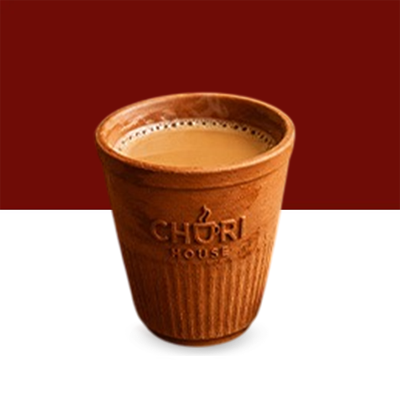
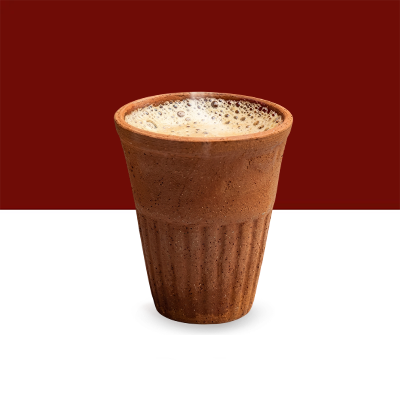
images + minor chnages done

Changed region(s): [[0.24, 0.21, 0.75, 0.9]]

diff --git a/resources/views/frontend/components/home/our-specials.blade.php b/resources/views/frontend/components/home/our-specials.blade.php
@@ -27,11 +27,11 @@
                     Aloo Toast
                 </div>
 
-                <div class="ch-specials-item" data-title="French Toast"
-                    data-desc="Golden toasted bread with rich flavors, perfect for breakfast or an evening snack."
-                    data-img="{{ asset('images/upload/special/French-Toast.jpg') }}">
+                <div class="ch-specials-item" data-title="Desi Ghee Churi"
+                    data-desc="Traditional churi made with pure desi ghee, freshly crumbled and blended for a rich, authentic taste."
+                    data-img="{{ asset('images/upload/special/churi.png') }}">
                     <span>03</span>
-                    French Toast
+                    Desi Ghee Churi
                 </div>
 
                 <div class="ch-specials-item active" data-title="Chai"
@@ -61,8 +61,8 @@
                     Aromatic, freshly brewed chai with rich flavors and comforting warmth.
                 </p>
 
-                <a href="#" class="ch-special-btn">
-                    Perfect
+                <a href="{{ route('our-menu') }}" class="btn-default btn-highlighted">
+                    View Menu
                 </a>
 
             </div>

diff --git a/resources/views/frontend/pages/locations.blade.php b/resources/views/frontend/pages/locations.blade.php
@@ -54,7 +54,7 @@
                         <div class="section-title">
                             <h2 class="text-anime-style-3" data-cursor="-opaque">Grow with a brand people love. </h2>
                             <p class="wow fadeInUp" data-wow-delay="0.2s">
-                                Interested in bringing the Seabud experience to your city? Connect with us to explore
+                                Interested in bringing the Churi House experience to your city? Connect with us to explore
                                 exciting franchise opportunities, business support, and the benefits of joining our growing
                                 brand family.
                             </p>

diff --git a/resources/views/frontend/components/home/testimonials.blade.php b/resources/views/frontend/components/home/testimonials.blade.php
@@ -56,7 +56,7 @@
                                             <img src="images/testimonial-quote.svg" alt="">
                                         </div>
                                         <div class="testimonial-content">
-                                            <p>Amazing taste, quality ingredients, and a welcoming environment. t's rare
+                                            <p>Amazing taste, quality ingredients, and a welcoming environment. It's rare
                                                 to find a place that delivers such authenticity with consistency.
                                             </p>
                                         </div>

diff --git a/resources/views/frontend/pages/contact-us.blade.php b/resources/views/frontend/pages/contact-us.blade.php
@@ -52,7 +52,7 @@
                         <div class="section-title">
                             <h2 class="text-anime-style-3" data-cursor="-opaque">Get in quick touch with us </h2>
                             <p class="wow fadeInUp" data-wow-delay="0.2s">Have a question, feedback, or a special request?
-                                Reach out now — we're here to help you make your Seabud experience unforgettable.</p>
+                                Reach out now — we're here to help you make your Churi House experience unforgettable.</p>
                         </div>
                         <!-- Section Title End -->
 

diff --git a/resources/views/frontend/components/about/faq.blade.php b/resources/views/frontend/components/about/faq.blade.php
@@ -81,7 +81,7 @@
                         <h3 class="wow fadeInUp">FAQs</h3>
                         <h2 class="text-anime-style-3" data-cursor="-opaque">Frequently asked question</h2>
                         <p class="wow fadeInUp" data-wow-delay="0.2s">Got questions about our food or bookings? Find
-                            quick answers to make your Seabud visit seamless.</p>
+                            quick answers to make your Churi House visit seamless.</p>
                     </div>
                     <!-- Section Title End -->
 

diff --git a/resources/views/frontend/components/home/best-seller.blade.php b/resources/views/frontend/components/home/best-seller.blade.php
@@ -10,7 +10,7 @@
              <div class="col-lg-3 col-md-6">
                 <div class="ch_bestseller_card">
                     <div class="ch_bestseller_image">
-                        <img src="{{ asset('images/upload/menu/Chai.jpeg') }}" alt="">
+                        <img src="{{ asset('images/upload/menu/cup-02.png') }}" alt="">
                     </div>
 
                     <div class="ch_bestseller_content">
